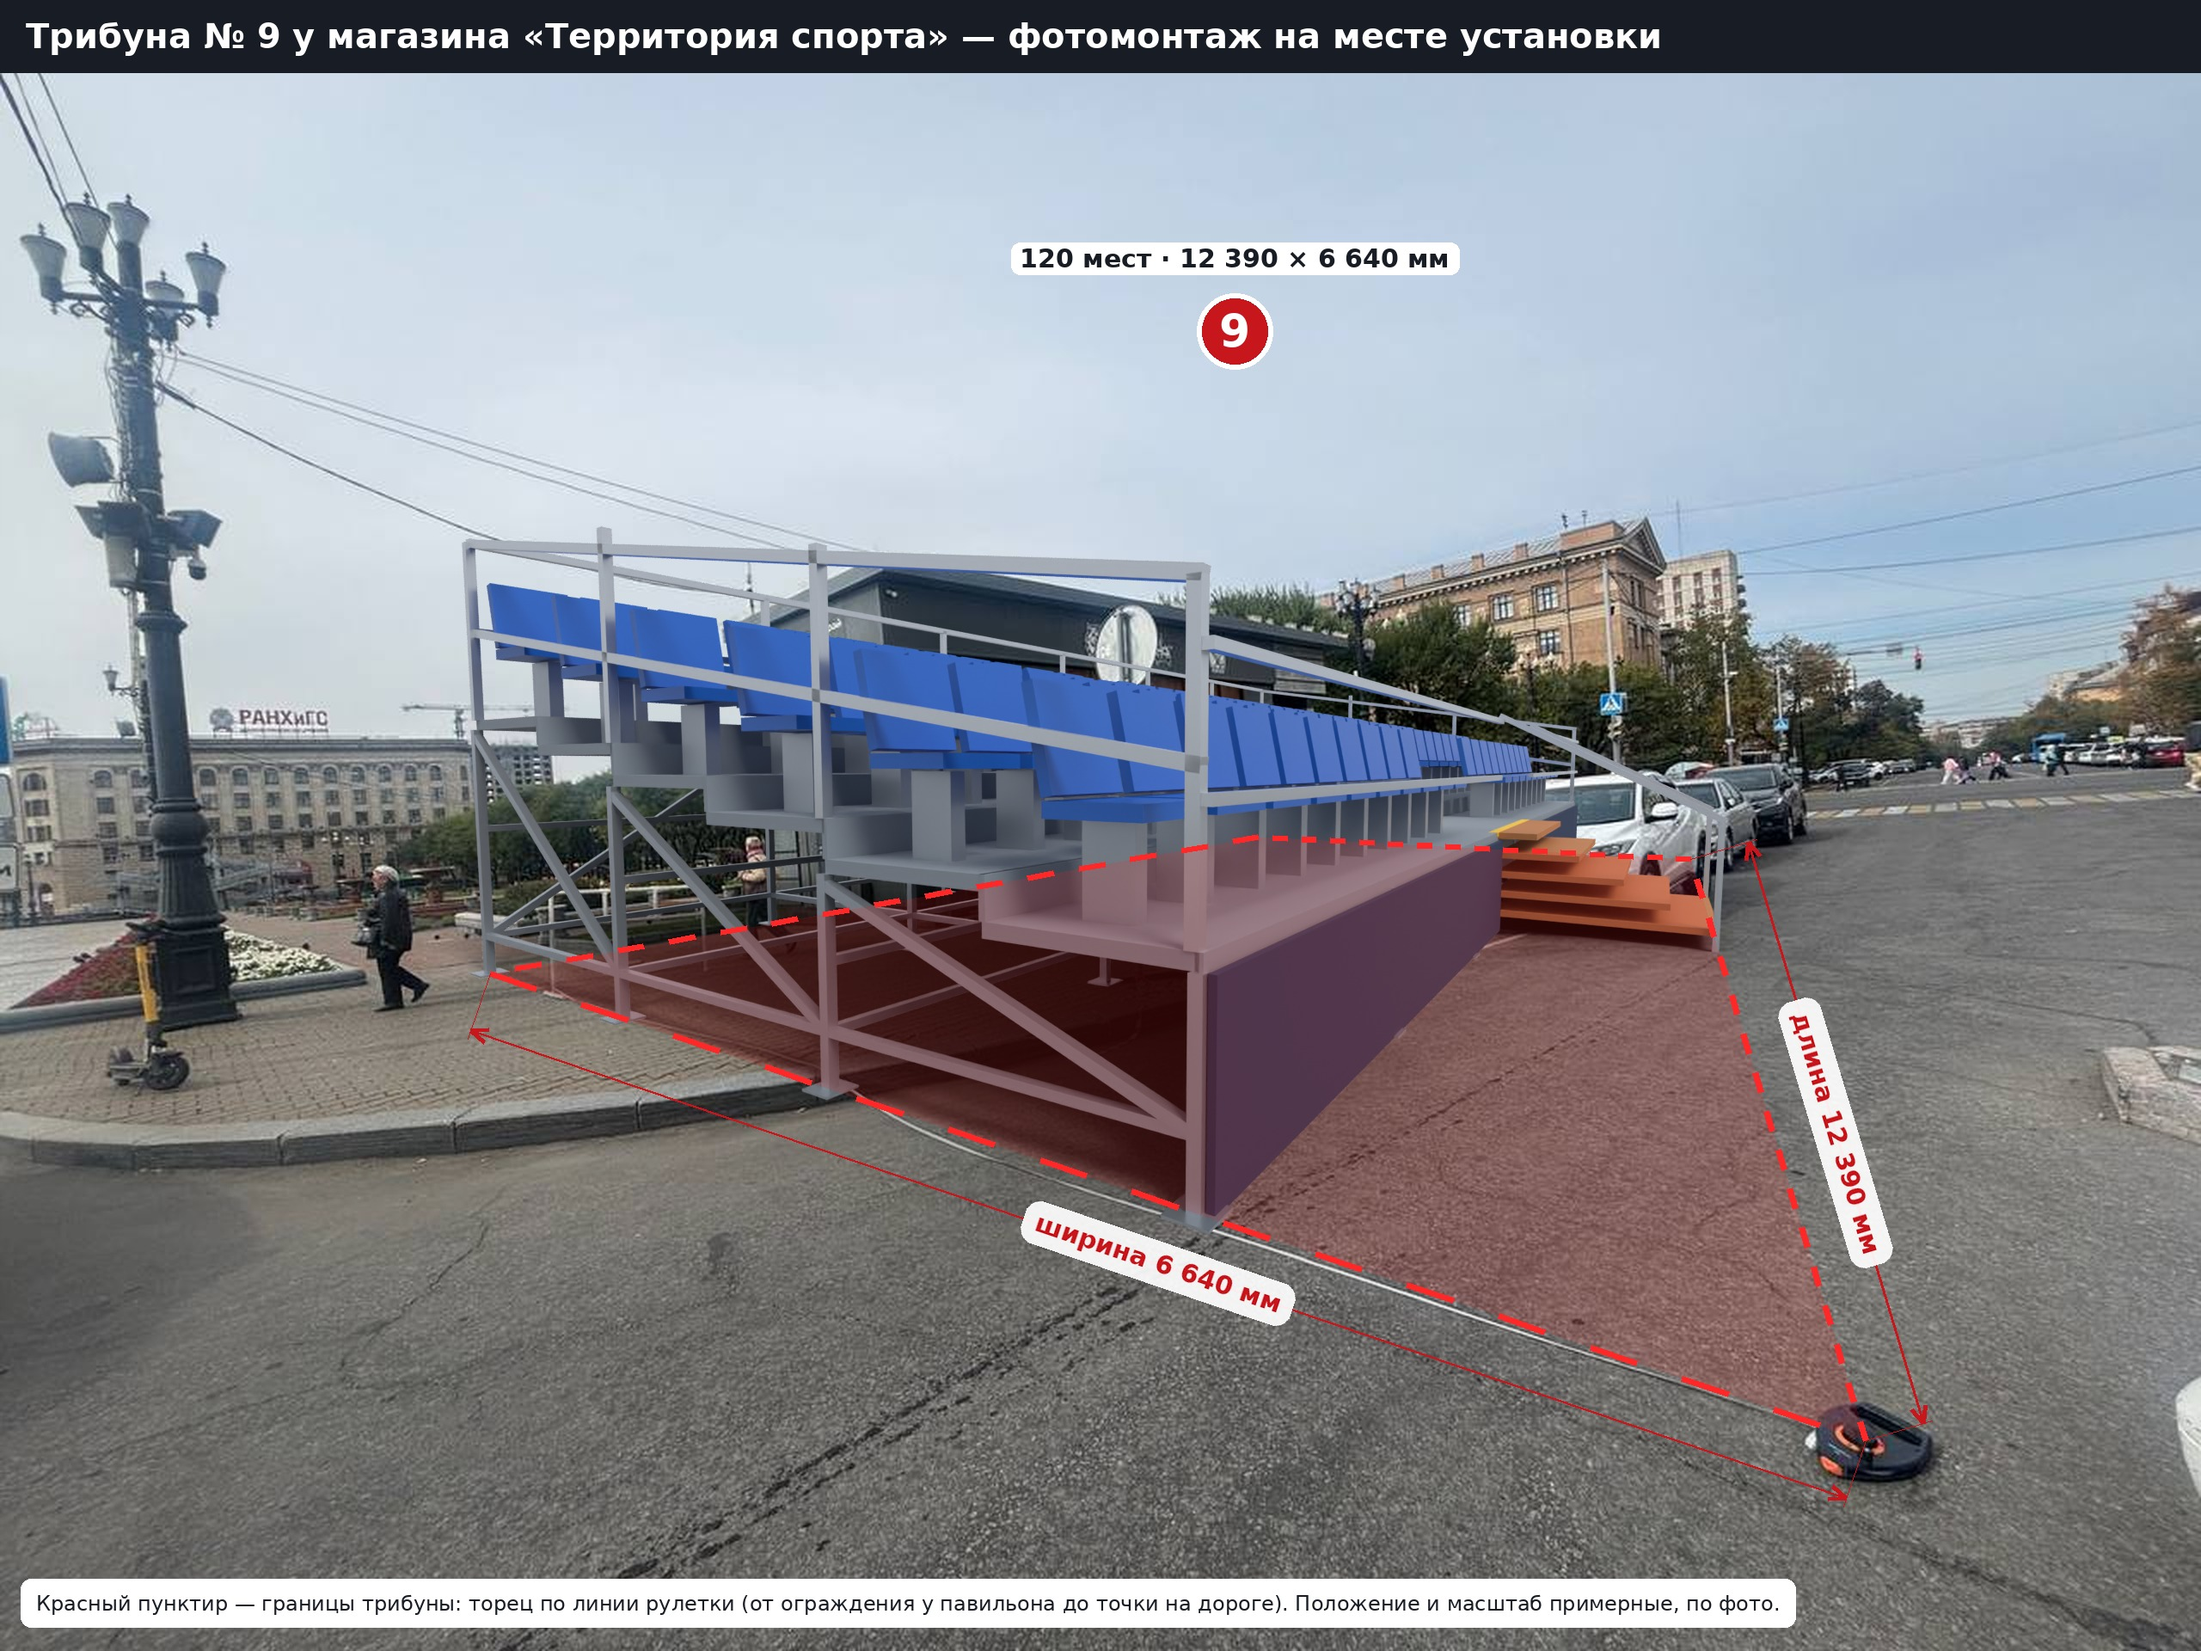
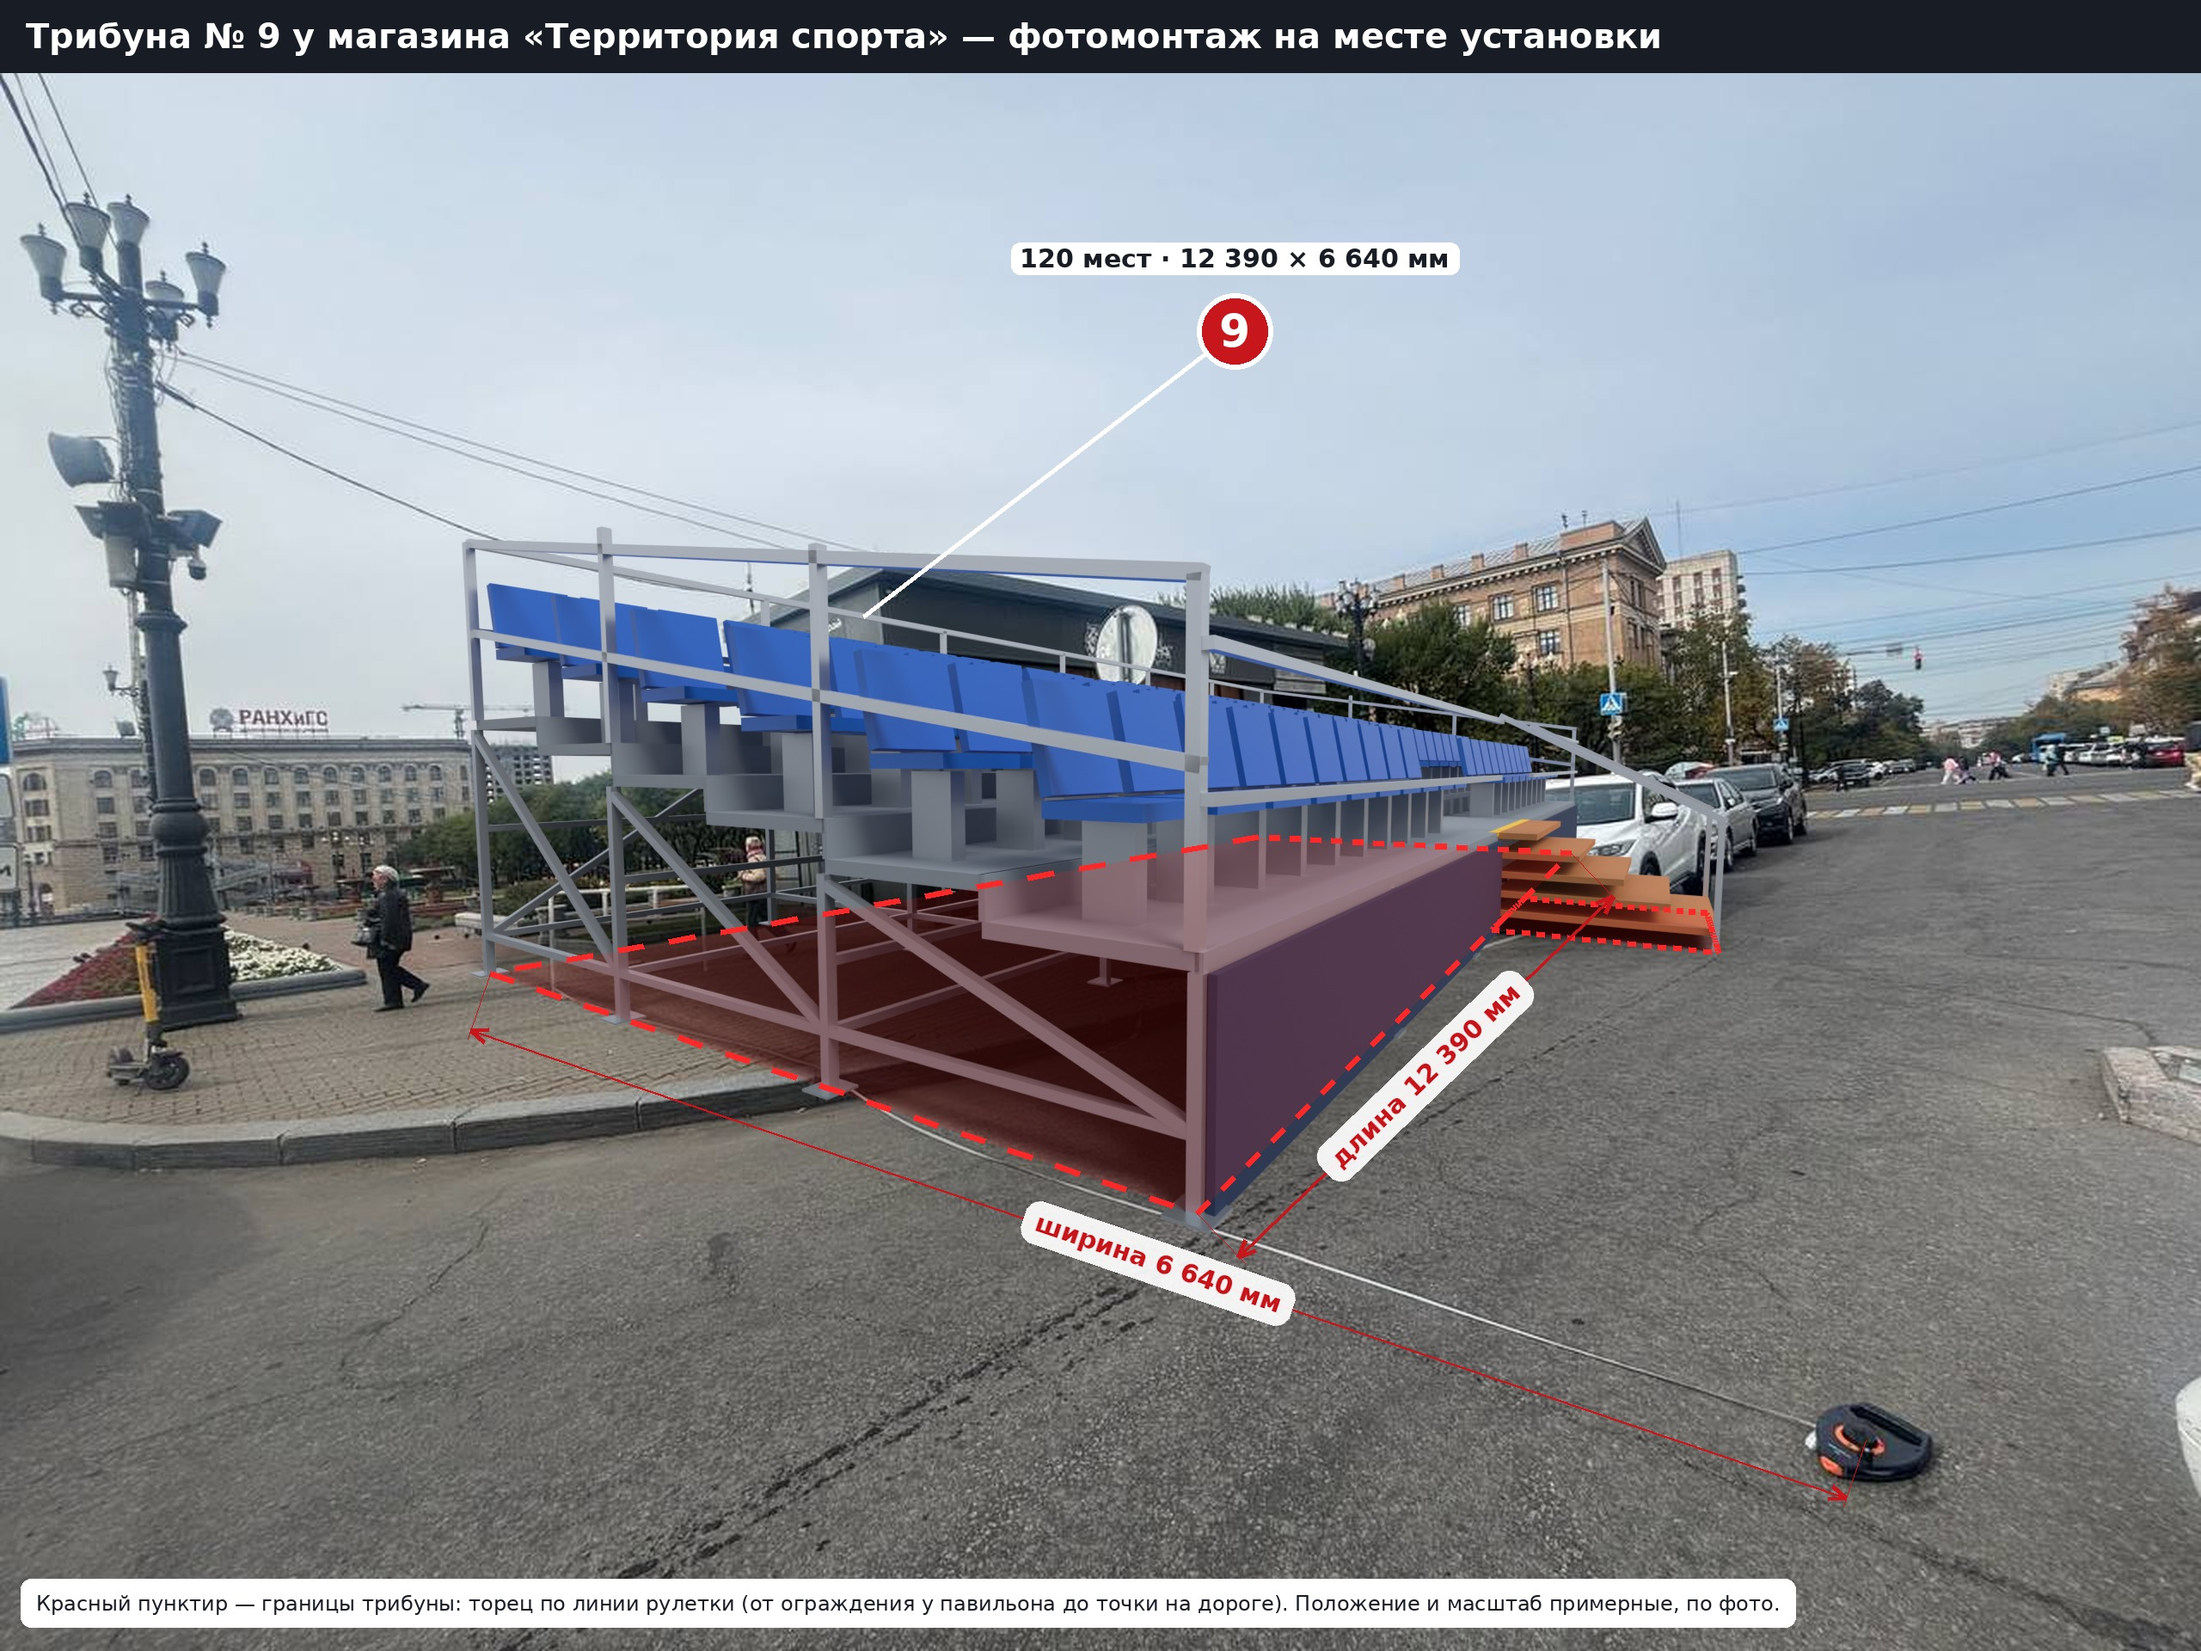
9 May renders: tribune 9 photomontage outline of body and stair
Claude-Session: https://claude.ai/code/session_01Sr6romWxxFHVESdZwFVcLx

Changed region(s): [[0.5312, 0.5, 0.875, 0.875], [0.4062, 0.6562, 0.4375, 0.6875], [0.3125, 0.625, 0.3438, 0.6562]]

diff --git a/renders-9may/comp_annotate.py b/renders-9may/comp_annotate.py
@@ -14,19 +14,22 @@ ov = Image.open(os.path.join(OUT, f'comp_raw_{shot}.png')).convert('RGBA')
 img = Image.alpha_composite(ph, ov)
 s = W/2560
 layer = Image.new('RGBA', (W, H), (0, 0, 0, 0)); d = ImageDraw.Draw(layer)
-fp = [tuple(p[:2]) for p in ann['footprint']]
-d.polygon(fp, fill=(255, 30, 30, 40))
-for i in range(4):  # dashed outline on the ground
-    a, b = fp[i], fp[(i+1) % 4]; n = 30
+def dashed(poly):
+  for i in range(len(poly)):
+    a, b = poly[i], poly[(i+1) % len(poly)]; n = 30
     for k in range(0, n, 2):
         p = (a[0]+(b[0]-a[0])*k/n, a[1]+(b[1]-a[1])*k/n); q = (a[0]+(b[0]-a[0])*(k+1)/n, a[1]+(b[1]-a[1])*(k+1)/n)
         d.line([p, q], fill=(255, 40, 40, 255), width=int(7*s))
-pastes = [dim_line(d, ann['ground_front'][0], ann['ground_front'][1], f'длина {mm(ann["L"])} мм', 70*s, font(30*s), RED),
+blk = [tuple(p[:2]) for p in ann['block']]; st = [tuple(p[:2]) for p in ann['stairfp']]
+d.polygon(blk, fill=(255, 30, 30, 38)); d.polygon(st, fill=(255, 30, 30, 38))
+dashed(blk); dashed(st)
+pastes = [dim_line(d, ann['block_front'][0], ann['block_front'][1], f'длина {mm(ann["L"])} мм', 70*s, font(30*s), RED),
           dim_line(d, ann['ground_side_l'][0], ann['ground_side_l'][1], f'ширина {mm(ann["D"])} мм', -70*s, font(30*s), RED)]
 img = Image.alpha_composite(img, layer)
 for lab, pos in pastes: img.alpha_composite(lab, dest=(max(0, pos[0]), max(0, pos[1])))
 d = ImageDraw.Draw(img)
 bx, by = ann['badge'][:2]; by = max(by, 200*s); r = 44*s
+tb = ann['top_back']; d.line([(bx, by), ((tb[0][0]+tb[1][0])/2, (tb[0][1]+tb[1][1])/2)], fill=WHITE, width=int(5*s))
 d.ellipse([bx-r, by-r, bx+r, by+r], fill=RED, outline=WHITE, width=int(6*s))
 d.text((bx, by), '9', font=font(52*s), fill=WHITE, anchor='mm')
 tag(d, (bx, by - r - 40*s), '120 мест · 12 390 × 6 640 мм', font(30*s), (255, 255, 255, 240), fg=DARK)

diff --git a/renders-9may/photo_comp.py b/renders-9may/photo_comp.py
@@ -78,9 +78,9 @@ def main():
     try: sc.view_settings.view_transform = 'Standard'
     except Exception: pass
     out = os.path.join(S.OUT, f'comp_raw_{shot}.png'); sc.render.filepath = out
-    bpy.ops.render.render(write_still=True)
+    if '--norender' not in argv: bpy.ops.render.render(write_still=True)
     ann = {k: (S.project(cam, v) if isinstance(v, tuple) else [S.project(cam, x) for x in v])
-           for k, v in t.items() if k in ('badge', 'footprint', 'top_back', 'ground_front', 'ground_side_l', 'ground_side_r')}
+           for k, v in t.items() if k in ('badge', 'footprint', 'block', 'stairfp', 'block_front', 'top_back', 'ground_front', 'ground_side_l', 'ground_side_r')}
     ann.update({k: t[k] for k in ('L', 'D', 'rows', 'seats')})
     ann['res'] = [W*2, H*2]
     json.dump(ann, open(os.path.join(S.OUT, f'comp_ann_{shot}.json'), 'w'), indent=1)

diff --git a/renders-9may/scene.py b/renders-9may/scene.py
@@ -250,6 +250,9 @@ def tribune(tid, x0, y_front, rows, per_side, h0, aisle=1.95, facing=-1, row_col
         ground_side_r=[W((L, -sd, 0)), W((L, D, 0))],
         top_row=[W((per_side*SEAT_W/2, D-ROW_D/2, top+0.7)), W((ax1 + per_side*SEAT_W/2, D-ROW_D/2, top+0.7))],
         footprint=[W((0, -sd, 0)), W((L, -sd, 0)), W((L, D, 0)), W((0, D, 0))],
+        block=[W((0, 0, 0)), W((L, 0, 0)), W((L, D, 0)), W((0, D, 0))],
+        stairfp=[W((ax0, -sd, 0)), W((ax1, -sd, 0)), W((ax1, 0, 0)), W((ax0, 0, 0))],
+        block_front=[W((0, 0, 0)), W((L, 0, 0))],
         height=top + rh,
     )
     return L
